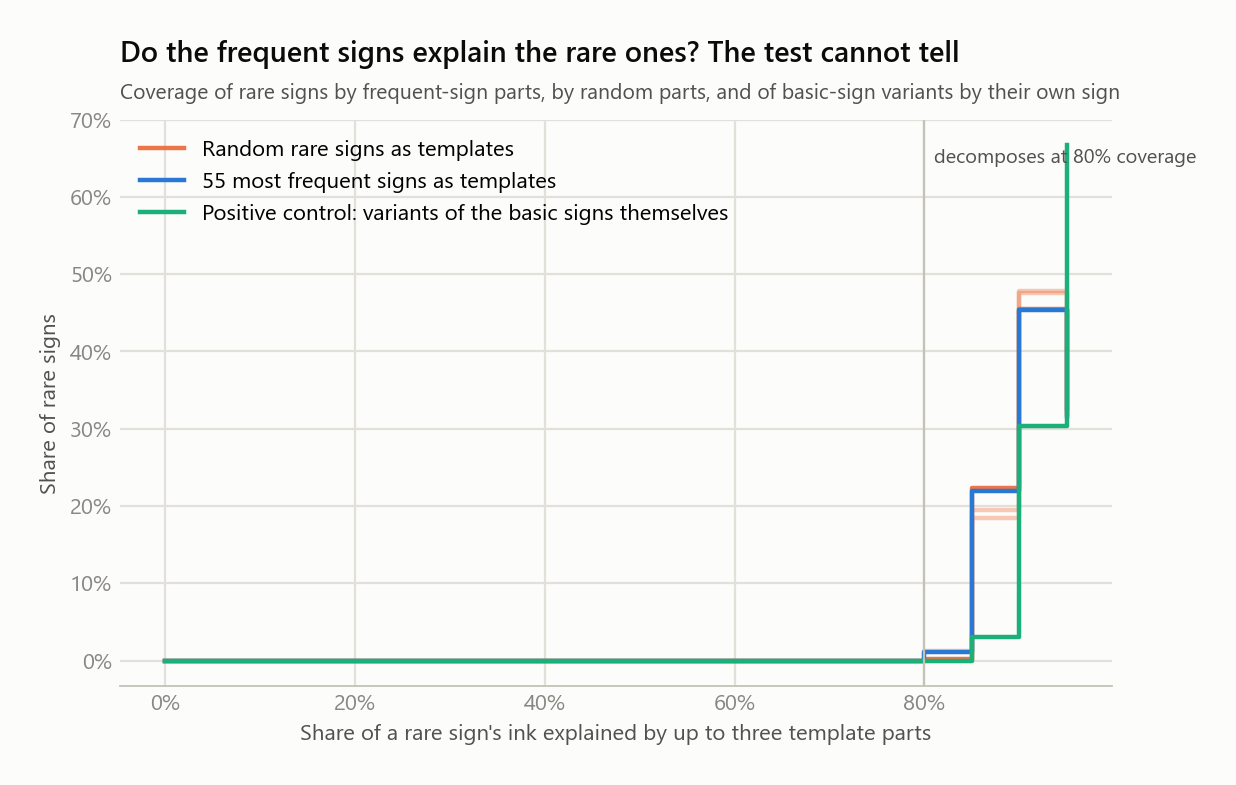
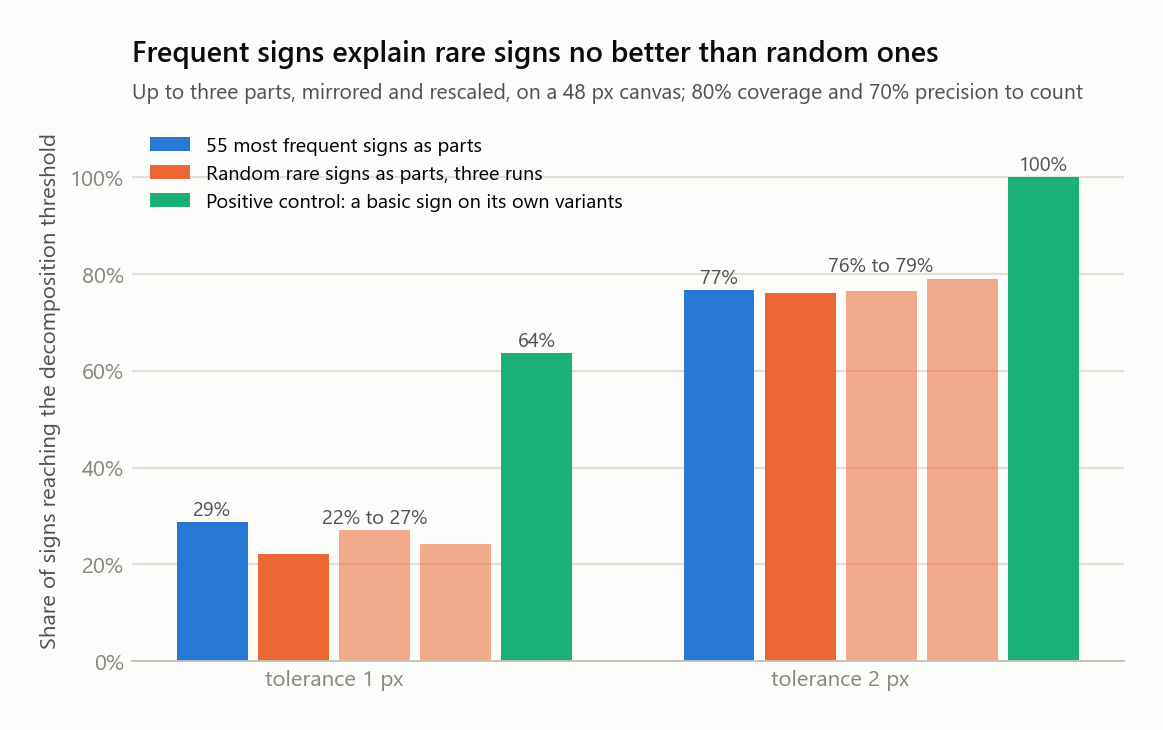
Replace decomposition chart with threshold shares; ignore run logs

diff --git a/scripts/charts.py b/scripts/charts.py
@@ -218,29 +218,42 @@ plt.close(fig)
 
 # 8 decomposition ------------------------------------------------------------
 if (out / "decomposition.csv").exists():
-    main = [float(r["coverage"]) for r in read("decomposition.csv")]
-    ctrl = collections.defaultdict(list)
-    for r in read("decomposition_control.csv"):
-        ctrl[r["control"]].append(float(r["coverage"]))
-    bins = np.linspace(0, 1, 21)
-    fig, ax = plt.subplots(figsize=(8, 4.6))
-    for k, (c, vals) in enumerate(sorted(ctrl.items())):
-        h, _ = np.histogram(vals, bins)
-        ax.step(bins[:-1], h / len(vals), where="post", color=C[1], lw=2, alpha=0.35 if k else 0.9,
-                label="Random rare signs as templates" if k == 0 else None)
-    h, _ = np.histogram(main, bins)
-    ax.step(bins[:-1], h / len(main), where="post", color=C[0], lw=2, label="55 most frequent signs as templates")
-    if (out / "decomposition_positive.csv").exists():
-        pos = [float(r["coverage"]) for r in read("decomposition_positive.csv")]
-        h, _ = np.histogram(pos, bins)
-        ax.step(bins[:-1], h / len(pos), where="post", color=C[2], lw=2, label="Positive control: variants of the basic signs themselves")
-    ax.axvline(0.8, color=AXIS, lw=1)
-    ax.text(0.81, ax.get_ylim()[1] * 0.92, "decomposes at 80% coverage", color=INK2, fontsize=9)
-    ax.set_xlabel("Share of a rare sign's ink explained by up to three template parts")
-    ax.set_ylabel("Share of rare signs")
+    def share(name):
+        rows = read(name)
+        return np.mean([r["decomposes"] == "True" for r in rows]) if rows else np.nan
+
+    def share_ctrl(name):
+        by = collections.defaultdict(list)
+        for r in read(name):
+            by[r["control"]].append(r["decomposes"] == "True")
+        return [np.mean(v) for _, v in sorted(by.items())]
+
+    runs = [("1 px", "decomposition.csv", "decomposition_control.csv", "decomposition_positive.csv"),
+            ("2 px", "decomposition_tol2.csv", "decomposition_control_tol2.csv", "decomposition_positive_tol2.csv")]
+    runs = [r for r in runs if (out / r[1]).exists()]
+    fig, ax = plt.subplots(figsize=(8, 4.4))
+    x = np.arange(len(runs))
+    w = 0.16
+    freq_s = [share(r[1]) for r in runs]
+    ctrl_s = [share_ctrl(r[2]) if (out / r[2]).exists() else [] for r in runs]
+    pos_s = [share(r[3]) if (out / r[3]).exists() else np.nan for r in runs]
+    ax.bar(x - 1.5 * w, freq_s, width=w - 0.02, color=C[0], label="55 most frequent signs as parts")
+    for k in range(3):
+        vals = [c[k] if len(c) > k else np.nan for c in ctrl_s]
+        ax.bar(x + (k - 0.5) * w, vals, width=w - 0.02, color=C[1], alpha=1 if k == 0 else 0.55,
+               label="Random rare signs as parts, three runs" if k == 0 else None)
+    ax.bar(x + 2.5 * w, pos_s, width=w - 0.02, color=C[2], label="Positive control: a basic sign on its own variants")
+    for i in range(len(runs)):
+        ax.text(x[i] - 1.5 * w, freq_s[i] + 0.015, f"{freq_s[i]:.0%}", ha="center", color=INK2, fontsize=9)
+        if ctrl_s[i]:
+            ax.text(x[i] + 0.5 * w, max(ctrl_s[i]) + 0.015, f"{min(ctrl_s[i]):.0%} to {max(ctrl_s[i]):.0%}", ha="center", color=INK2, fontsize=9)
+        ax.text(x[i] + 2.5 * w, pos_s[i] + 0.015, f"{pos_s[i]:.0%}", ha="center", color=INK2, fontsize=9)
+    ax.set_xticks(x); ax.set_xticklabels([f"tolerance {r[0]}" for r in runs])
+    ax.set_ylim(0, 1.12)
+    ax.set_ylabel("Share of signs reaching the decomposition threshold")
     ax.yaxis.set_major_formatter(lambda v, _: f"{v:.0%}")
-    ax.xaxis.set_major_formatter(lambda v, _: f"{v:.0%}")
-    ax.legend(loc="upper left")
-    finish(fig, ax, "Do the frequent signs explain the rare ones? The test cannot tell",
-           "Coverage of rare signs by frequent-sign parts, by random parts, and of basic-sign variants by their own sign", "decomposition.png")
+    ax.grid(axis="x", visible=False)
+    ax.legend(loc="upper left", fontsize=9)
+    finish(fig, ax, "Frequent signs explain rare signs no better than random ones",
+           "Up to three parts, mirrored and rescaled, on a 48 px canvas; 80% coverage and 70% precision to count", "decomposition.png")
 print("charts written to", img)
